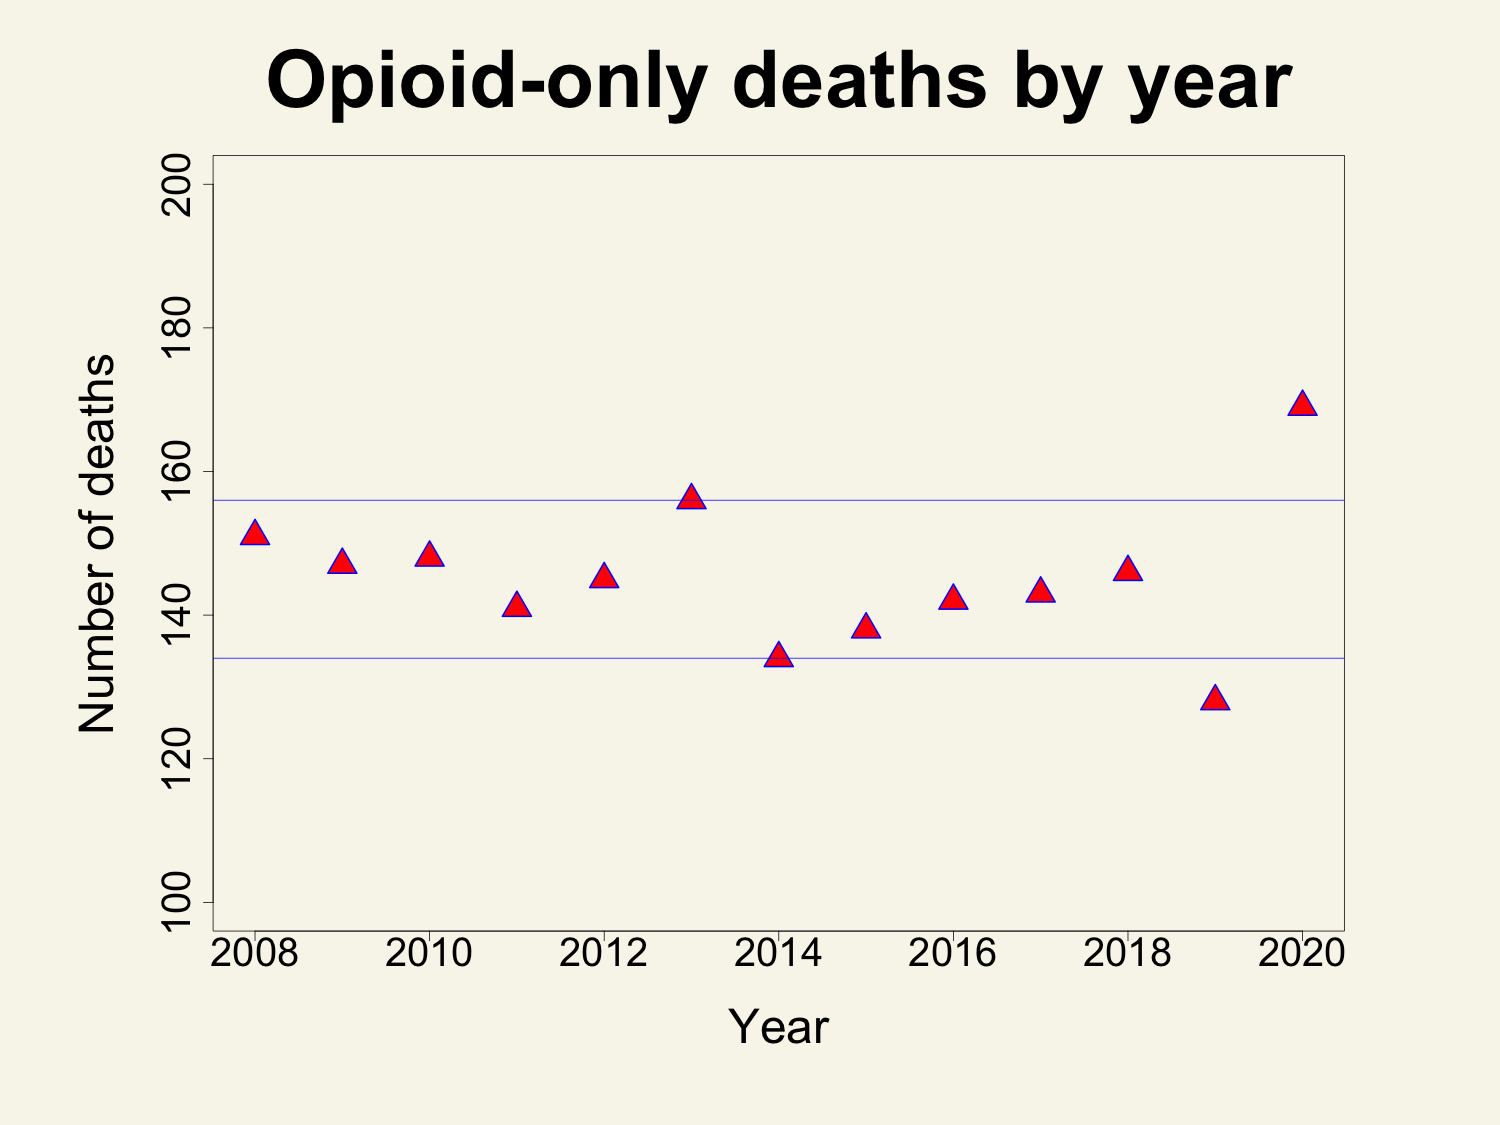
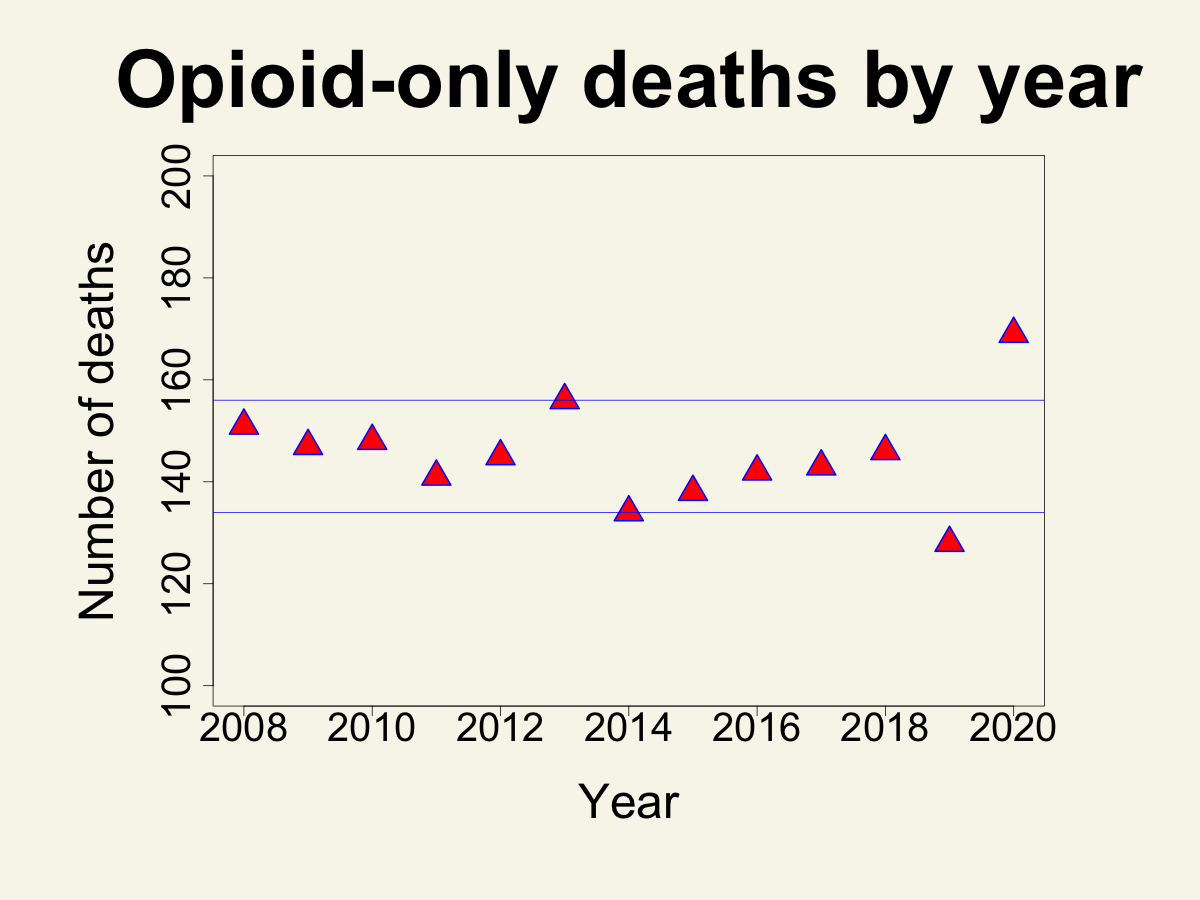
Fix up README and resize large vizualization

diff --git a/README.md b/README.md
@@ -1,9 +1,4 @@
 
-The term _speedball_ refers to combining heroin and cocaine. It is the
-opioid/stimulant combination that killed the actor and comedian, John
-Belushi on March 5, 1982.
-
-
 The website where King County reports drug overdose deaths.
 
 >  <https://kingcounty.gov/depts/health/examiner/services/reports-data/overdose.aspx>
